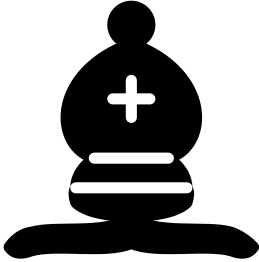
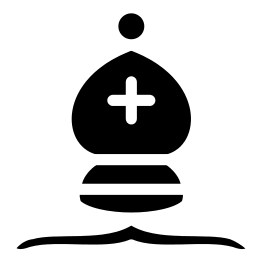
Phase 2 of GUI
Displays figures at the proper spots and handles changes in that

Changed region(s): [[0.0, 0.0, 1.0, 1.0], [0.4015, 0.2748, 0.6178, 0.4885]]

diff --git a/FunctionFile.rb b/FunctionFile.rb
@@ -3,7 +3,6 @@ require './DiagonalMoves.rb' # it's a module
 require './Figures.rb'
 require './Table.rb'
 require './Player.rb'
-require './FunctionFile.rb'
 
 include StraightMoves
 include DiagonalMoves
@@ -70,7 +69,6 @@ end
 
 def inspectFigure(table, attacker, x, y)
   if LEGIT_FIGURES[table[x][y].class] && table[x][y].player == attacker.id
-    puts table[x][y].class
     table[x][y].table_of_range.display
   else
     puts "This isn\'t player #{ attacker.id }\'s figure! Try again"
@@ -128,4 +126,86 @@ def kingCastling(table, attacker, defender)
     puts 'You can\'t castle queen- side'
     return 1
   end
+end
+
+def customGame (table, player1, player2)
+  player1.king.x = 1
+  player1.king.y = 4
+  player2.king.x = 8
+  player2.king.y = 4
+
+  player1.add_figure(pawn1 = Pawn.new(7, 1))
+  player1.add_figure(pawn2 = Pawn.new(2, 2))
+  player1.add_figure(pawn3 = Pawn.new(2, 3))
+  player1.add_figure(bishop1 = Bishop.new(2, 4))
+  player1.add_figure(pawn6 = Pawn.new(2, 6))
+  player1.add_figure(pawn7 = Pawn.new(2, 7))
+  player1.add_figure(pawn8 = Pawn.new(2, 8))
+  player1.add_figure(rook1 = Rook.new(1, 1))
+  player1.add_figure(rook2 = Rook.new(1, 8))
+  #player1.add_figure(queen1 = Queen.new(1, 5))
+
+  player2.add_figure(pawn21 = Pawn.new(4, 1))
+  player2.add_figure(pawn22 = Pawn.new(7, 2))
+  player2.add_figure(pawn23 = Pawn.new(7, 3))
+  player2.add_figure(pawn24 = Pawn.new(7, 4))
+  player2.add_figure(pawn25 = Pawn.new(2, 5))
+  player2.add_figure(pawn26 = Pawn.new(3, 6))
+  player2.add_figure(pawn27 = Pawn.new(7, 7))
+  player2.add_figure(pawn28 = Pawn.new(3, 8))
+  player2.add_figure(rook21 = Rook.new(4, 6))
+  player2.add_figure(knight21 = Knight.new(5, 4))
+  player2.add_figure(rook1 = Rook.new(8, 2))
+  player2.add_figure(rook2 = Rook.new(8, 8))
+
+  table.put_figures(player1.figures)
+  table.put_figures(player2.figures)
+
+  player1.generate_table_of_range(table)
+  player2.generate_table_of_range(table)
+end
+
+def standardGame (table, player1, player2)
+  player1.king.x = 1
+  player1.king.y = 4
+  player2.king.x = 8
+  player2.king.y = 4
+
+  player1.add_figure(Pawn.new(2, 1))
+  player1.add_figure(Pawn.new(2, 2))
+  player1.add_figure(Pawn.new(2, 3))
+  player1.add_figure(Pawn.new(2, 4))
+  player1.add_figure(Pawn.new(2, 5))
+  player1.add_figure(Pawn.new(2, 6))
+  player1.add_figure(Pawn.new(2, 7))
+  player1.add_figure(Pawn.new(2, 8))
+  player1.add_figure(Rook.new(1, 1))
+  player1.add_figure(Rook.new(1, 8))
+  player1.add_figure(Knight.new(1, 2))
+  player1.add_figure(Knight.new(1, 7))
+  player1.add_figure(Bishop.new(1, 3))
+  player1.add_figure(Bishop.new(1, 6))
+  player1.add_figure(Queen.new(1, 5))
+
+  player2.add_figure(Pawn.new(7, 1))
+  player2.add_figure(Pawn.new(7, 2))
+  player2.add_figure(Pawn.new(7, 3))
+  player2.add_figure(Pawn.new(7, 4))
+  player2.add_figure(Pawn.new(7, 5))
+  player2.add_figure(Pawn.new(7, 6))
+  player2.add_figure(Pawn.new(7, 7))
+  player2.add_figure(Pawn.new(7, 8))
+  player2.add_figure(Rook.new(8, 1))
+  player2.add_figure(Rook.new(8, 8))
+  player2.add_figure(Knight.new(8, 2))
+  player2.add_figure(Knight.new(8, 7))
+  player2.add_figure(Bishop.new(8, 3))
+  player2.add_figure(Bishop.new(8, 6))
+  player2.add_figure(Queen.new(8, 5))
+
+  table.put_figures(player1.figures)
+  table.put_figures(player2.figures)
+
+  player1.generate_table_of_range(table)
+  player2.generate_table_of_range(table)
 end

diff --git a/chess_gui.rb b/chess_gui.rb
@@ -1,6 +1,13 @@
+require './FunctionFile.rb'
+
+
 Shoes.app(width: 800, height: 800) do
   HASH_OF_COLORS = { 0 => black, 1 => white}
   @board = Array.new(8) { Array.new(8) }
+
+  @table = Table.new
+  @player1 = Player.new(1, 4, 1)
+  @player2 = Player.new(2, 4, 8)
 
   leftPadding = 100
   topPadding = 100
@@ -9,13 +16,32 @@ Shoes.app(width: 800, height: 800) do
   leftVal = leftPadding
   topVal = topPadding
 
-  color = 1
-  stack do
-    @box = para "watch here, fag"
-    @box2 = para "watch here too, fag"
-    @box3 = para "ye here too"
+  @standardGameButton = button "Standard Game plz"
+  @customGameButton = button "Custom shet"
+  @drawGameButton = button "Draw me plox"
+
+  @standardGameButton.click do
+    @table = Table.new
+    @player1 = Player.new(1, 4, 1)
+    @player2 = Player.new(2, 4, 8)
+    standardGame(@table, @player1, @player2)
   end
 
+  @customGameButton.click do
+    @table = Table.new
+    @player1 = Player.new(1, 4, 1)
+    @player2 = Player.new(2, 4, 8)
+    customGame(@table, @player1, @player2)
+  end
+
+  stack() do
+    @box = para "watch here, fag"
+    @box2 = para "watch here too, fag"
+    @box3 = para "ye here too. fag"
+  end
+
+
+  color = 1
   @board.each_index do |i|
     @board[i].each_index do |j|
       @board[i][j] = rect(left: leftVal, top: topVal, width: widthVal)
@@ -27,6 +53,27 @@ Shoes.app(width: 800, height: 800) do
     leftVal = leftPadding
   end
 
+  firstPosLeft, firstPosTop = 0, 0
+  secondPosLeft, secondPosTop = 0, 0
+
+  arrayofImages = Array.new
+
+  @drawGameButton.click do
+    arrayofImages.each { |elem| if elem.left then elem.remove end}
+    arrayofImages = Array.new
+    @table.squares.each_index do |i|
+      @table.squares[i + 1].each_index do |j|
+        if LEGIT_FIGURES[@table[i + 1][j + 1].class] != nil
+          someFigure = image("#{@table[i + 1][j + 1].image}")
+          someFigure.left = @board[i][j].left
+          someFigure.top = @board[i][j].top
+          someFigure.height = widthVal
+          someFigure.width = widthVal
+          arrayofImages.push(someFigure)
+        end
+      end
+    end
+  end
   click do |button, left, top|
     @board.each_index do |i|
       @board[i].each_index do |j|
@@ -34,10 +81,26 @@ Shoes.app(width: 800, height: 800) do
           top <= 8 * widthVal + topPadding && left <= 8 * widthVal + leftPadding &&
           left - @board[i][j].left <= widthVal && top - @board[i][j].top <= widthVal
 
-          @board[i][j].fill = red
           @box.replace "#{i + 1}, #{j + 1}"
-          @box2.replace "#{@board[i][j].left} #{@board[i][j].top}"
-          @box3.replace "#{left} #{top}"
+          if firstPosLeft == 0
+            firstPosLeft = i + 1
+            firstPosTop = j + 1
+            @box2.replace "#{firstPosLeft}, #{firstPosTop}"
+            @board[i][j].fill = red
+          else
+            secondPosLeft = i + 1
+            secondPosTop = j + 1
+            @box2.replace "#{firstPosLeft}, #{firstPosTop}"
+            @box3.replace "#{secondPosLeft}, #{secondPosTop}"
+
+            if (firstPosLeft + firstPosTop) % 2 == 1
+              @board[firstPosLeft - 1][firstPosTop - 1].fill = white
+            else
+              @board[firstPosLeft - 1][firstPosTop - 1].fill = black
+            end
+            firstPosLeft = 0
+            firstPosTop = 0
+          end
         end
       end
     end

diff --git a/chess_console.rb b/chess_console.rb
@@ -4,6 +4,7 @@ require './Figures.rb'
 require './Table.rb'
 require './Player.rb'
 require './FunctionFile.rb'
+require 'colorize'
 
 include StraightMoves
 include DiagonalMoves
@@ -121,36 +122,7 @@ table = Table.new
 player1 = Player.new(1, 1, 4)
 player2 = Player.new(2, 8, 4)
 
-
-player1.add_figure(pawn1 = Pawn.new(7, 1))
-player1.add_figure(pawn2 = Pawn.new(2, 2))
-player1.add_figure(pawn3 = Pawn.new(2, 3))
-player1.add_figure(bishop1 = Bishop.new(2, 4))
-player1.add_figure(pawn6 = Pawn.new(2, 6))
-player1.add_figure(pawn7 = Pawn.new(2, 7))
-player1.add_figure(pawn8 = Pawn.new(2, 8))
-player1.add_figure(rook1 = Rook.new(1, 1))
-player1.add_figure(rook2 = Rook.new(1, 8))
-#player1.add_figure(queen1 = Queen.new(1, 5))
-
-player2.add_figure(pawn21 = Pawn.new(4, 1))
-player2.add_figure(pawn22 = Pawn.new(7, 2))
-player2.add_figure(pawn23 = Pawn.new(7, 3))
-player2.add_figure(pawn24 = Pawn.new(7, 4))
-player2.add_figure(pawn25 = Pawn.new(2, 5))
-player2.add_figure(pawn26 = Pawn.new(3, 6))
-player2.add_figure(pawn27 = Pawn.new(7, 7))
-player2.add_figure(pawn28 = Pawn.new(3, 8))
-player2.add_figure(rook21 = Rook.new(4, 6))
-player2.add_figure(knight21 = Knight.new(5, 4))
-player2.add_figure(rook1 = Rook.new(8, 2))
-player2.add_figure(rook2 = Rook.new(8, 8))
-
-table.put_figures(player1.figures)
-table.put_figures(player2.figures)
-
-player1.generate_table_of_range(table)
-player2.generate_table_of_range(table)
+standardGame(table, player1, player2)
 
 table.display
 

diff --git a/Player.rb b/Player.rb
@@ -20,6 +20,15 @@ class Player
     if figure.x > 0 && figure.y > 0 && figure.x < 9 && figure.y < 9
       @figures.push(figure)
       figure.player = @id
+
+      stringHelper = String.new('./Images/')
+      if @id == 1
+        stringHelper = stringHelper + 'White'
+      else
+        stringHelper = stringHelper + 'Black'
+      end
+      stringHelper += figure.class.to_s + '.png'
+      figure.image = stringHelper
     else puts 'figure you\'re trying to add to player is out of base boundaries'
     end
     if figure.class == Pawn then figure.direction = @direction end

diff --git a/Figures.rb b/Figures.rb
@@ -2,7 +2,7 @@
 
 # inherited by all figures, aka abstract class
 class Figure
-  attr_accessor :x, :y, :table_of_range, :player, :has_moved
+  attr_accessor :x, :y, :table_of_range, :player, :has_moved, :image
 
   def initialize(x, y)
     @x = x

diff --git a/Table.rb b/Table.rb
@@ -1,4 +1,3 @@
-require 'colorize'
 # used for interface, as well as figure possible moves/ attacks
 class Table
   attr_accessor :squares
